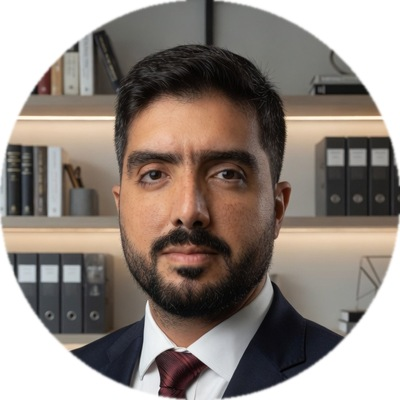
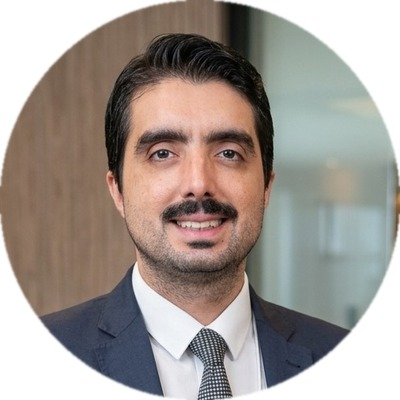
feat: foto Diego atualizada, boleto no tutorial VVR, icones sociais

diff --git a/index.html b/index.html
@@ -222,6 +222,9 @@
     .vvr-steps a { color:var(--green); text-decoration:underline; }
     .vvr-steps code { background:var(--gray-100); padding:1px 6px; border-radius:4px; font-size:13px; color:var(--gray-800); }
     .vvr-tip { background:#fffbeb; border:1px solid #fde68a; border-radius:8px; padding:12px 14px; font-size:13px; color:#92400e; margin-top:14px; line-height:1.6; }
+    .vvr-boleto-wrap { margin-top:14px; }
+    .vvr-boleto-img { width:100%; border-radius:8px; border:1px solid var(--gray-200); box-shadow:0 2px 10px rgba(0,0,0,.08); display:block; }
+    .vvr-boleto-caption { margin-top:8px; font-size:12px; color:var(--gray-600); line-height:1.5; text-align:center; }
     .vvr-warn { background:var(--blue-light); border:1px solid #bfdbfe; border-radius:8px; padding:12px 14px; font-size:13px; color:#1e40af; margin-bottom:20px; line-height:1.6; }
 
     /* SOCIAL LINKS */
@@ -406,16 +409,15 @@
       <div class="vvr-card">
         <span class="vvr-badge">Método 1 — mais fácil</span>
         <h3>Você já tem a guia de ITBI</h3>
-        <p>Se você já gerou ou recebeu a guia de ITBI emitida pela Prefeitura, procure o campo <strong>"Valores Utilizados"</strong>. O Valor Venal de Referência está na linha destacada abaixo:</p>
+        <p>Se você já gerou ou recebeu a guia de ITBI emitida pela Prefeitura, procure o campo <strong>"Valores Utilizados"</strong>. O <strong>Valor Venal de Referência</strong> está indicado na linha destacada — veja o exemplo real abaixo:</p>
         <div class="vvr-example">
-          <div class="vvr-example-label">Exemplo de guia de ITBI — Prefeitura de São Paulo</div>
-          <div class="vvr-example-box">
-            <div class="vvr-row">NATUREZA: COMPRA E VENDA</div>
-            <div class="vvr-row">VALOR DE TRANSAÇÃO: R$ 500.000,00</div>
-            <div class="vvr-row highlight">➜ VALOR VENAL DE REFERÊNCIA: R$ 25.562.375,00</div>
+          <div class="vvr-example-label">Exemplo real de guia de ITBI — Prefeitura de São Paulo</div>
+          <div class="vvr-boleto-wrap">
+            <img src="img/boleto.png" alt="Exemplo de guia de ITBI da Prefeitura de São Paulo com o campo Valor Venal de Referência destacado" class="vvr-boleto-img" />
+            <div class="vvr-boleto-caption">⬆️ O campo <strong>"Valor Venal de Referência"</strong> é o que você deve informar na calculadora — não o "Valor de Transação".</div>
           </div>
         </div>
-        <div class="vvr-tip">💡 É exatamente esse valor (Valor Venal de Referência) que você deve inserir no campo da calculadora — não o valor de transação.</div>
+        <div class="vvr-tip">💡 Neste exemplo, o valor de transação era R$ 500.000, mas a Prefeitura calculou o ITBI sobre R$ 25.562.375 — mais de 50× o valor real. É exatamente esse tipo de distorção que o STJ declarou ilegal.</div>
       </div>
 
       <!-- Método 2 — SQL São Paulo -->